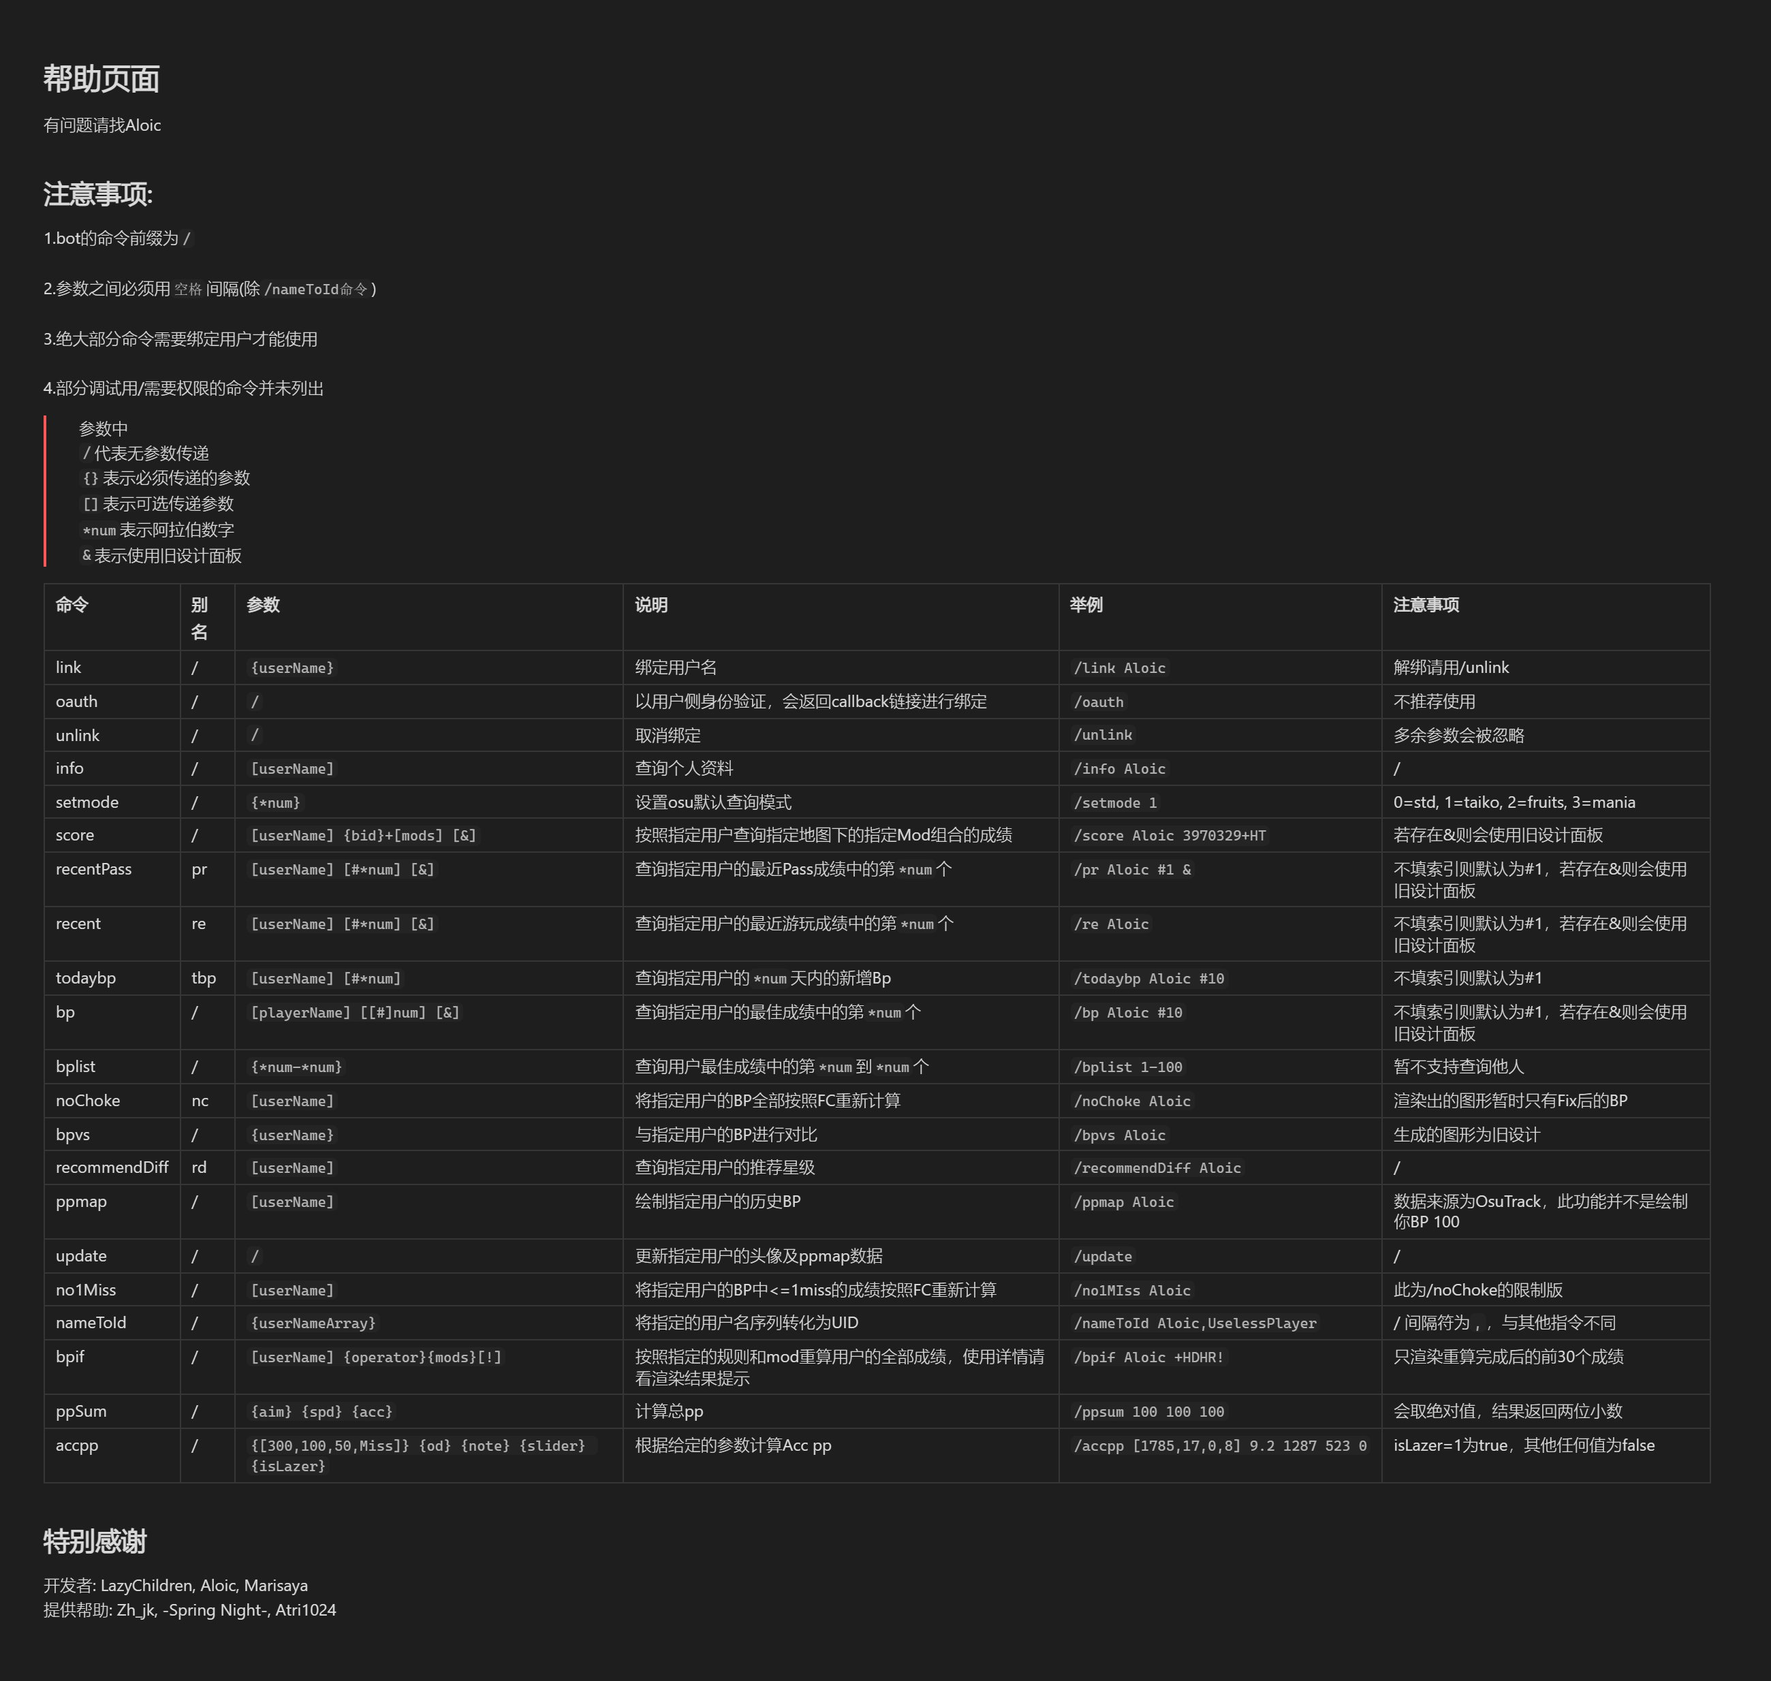
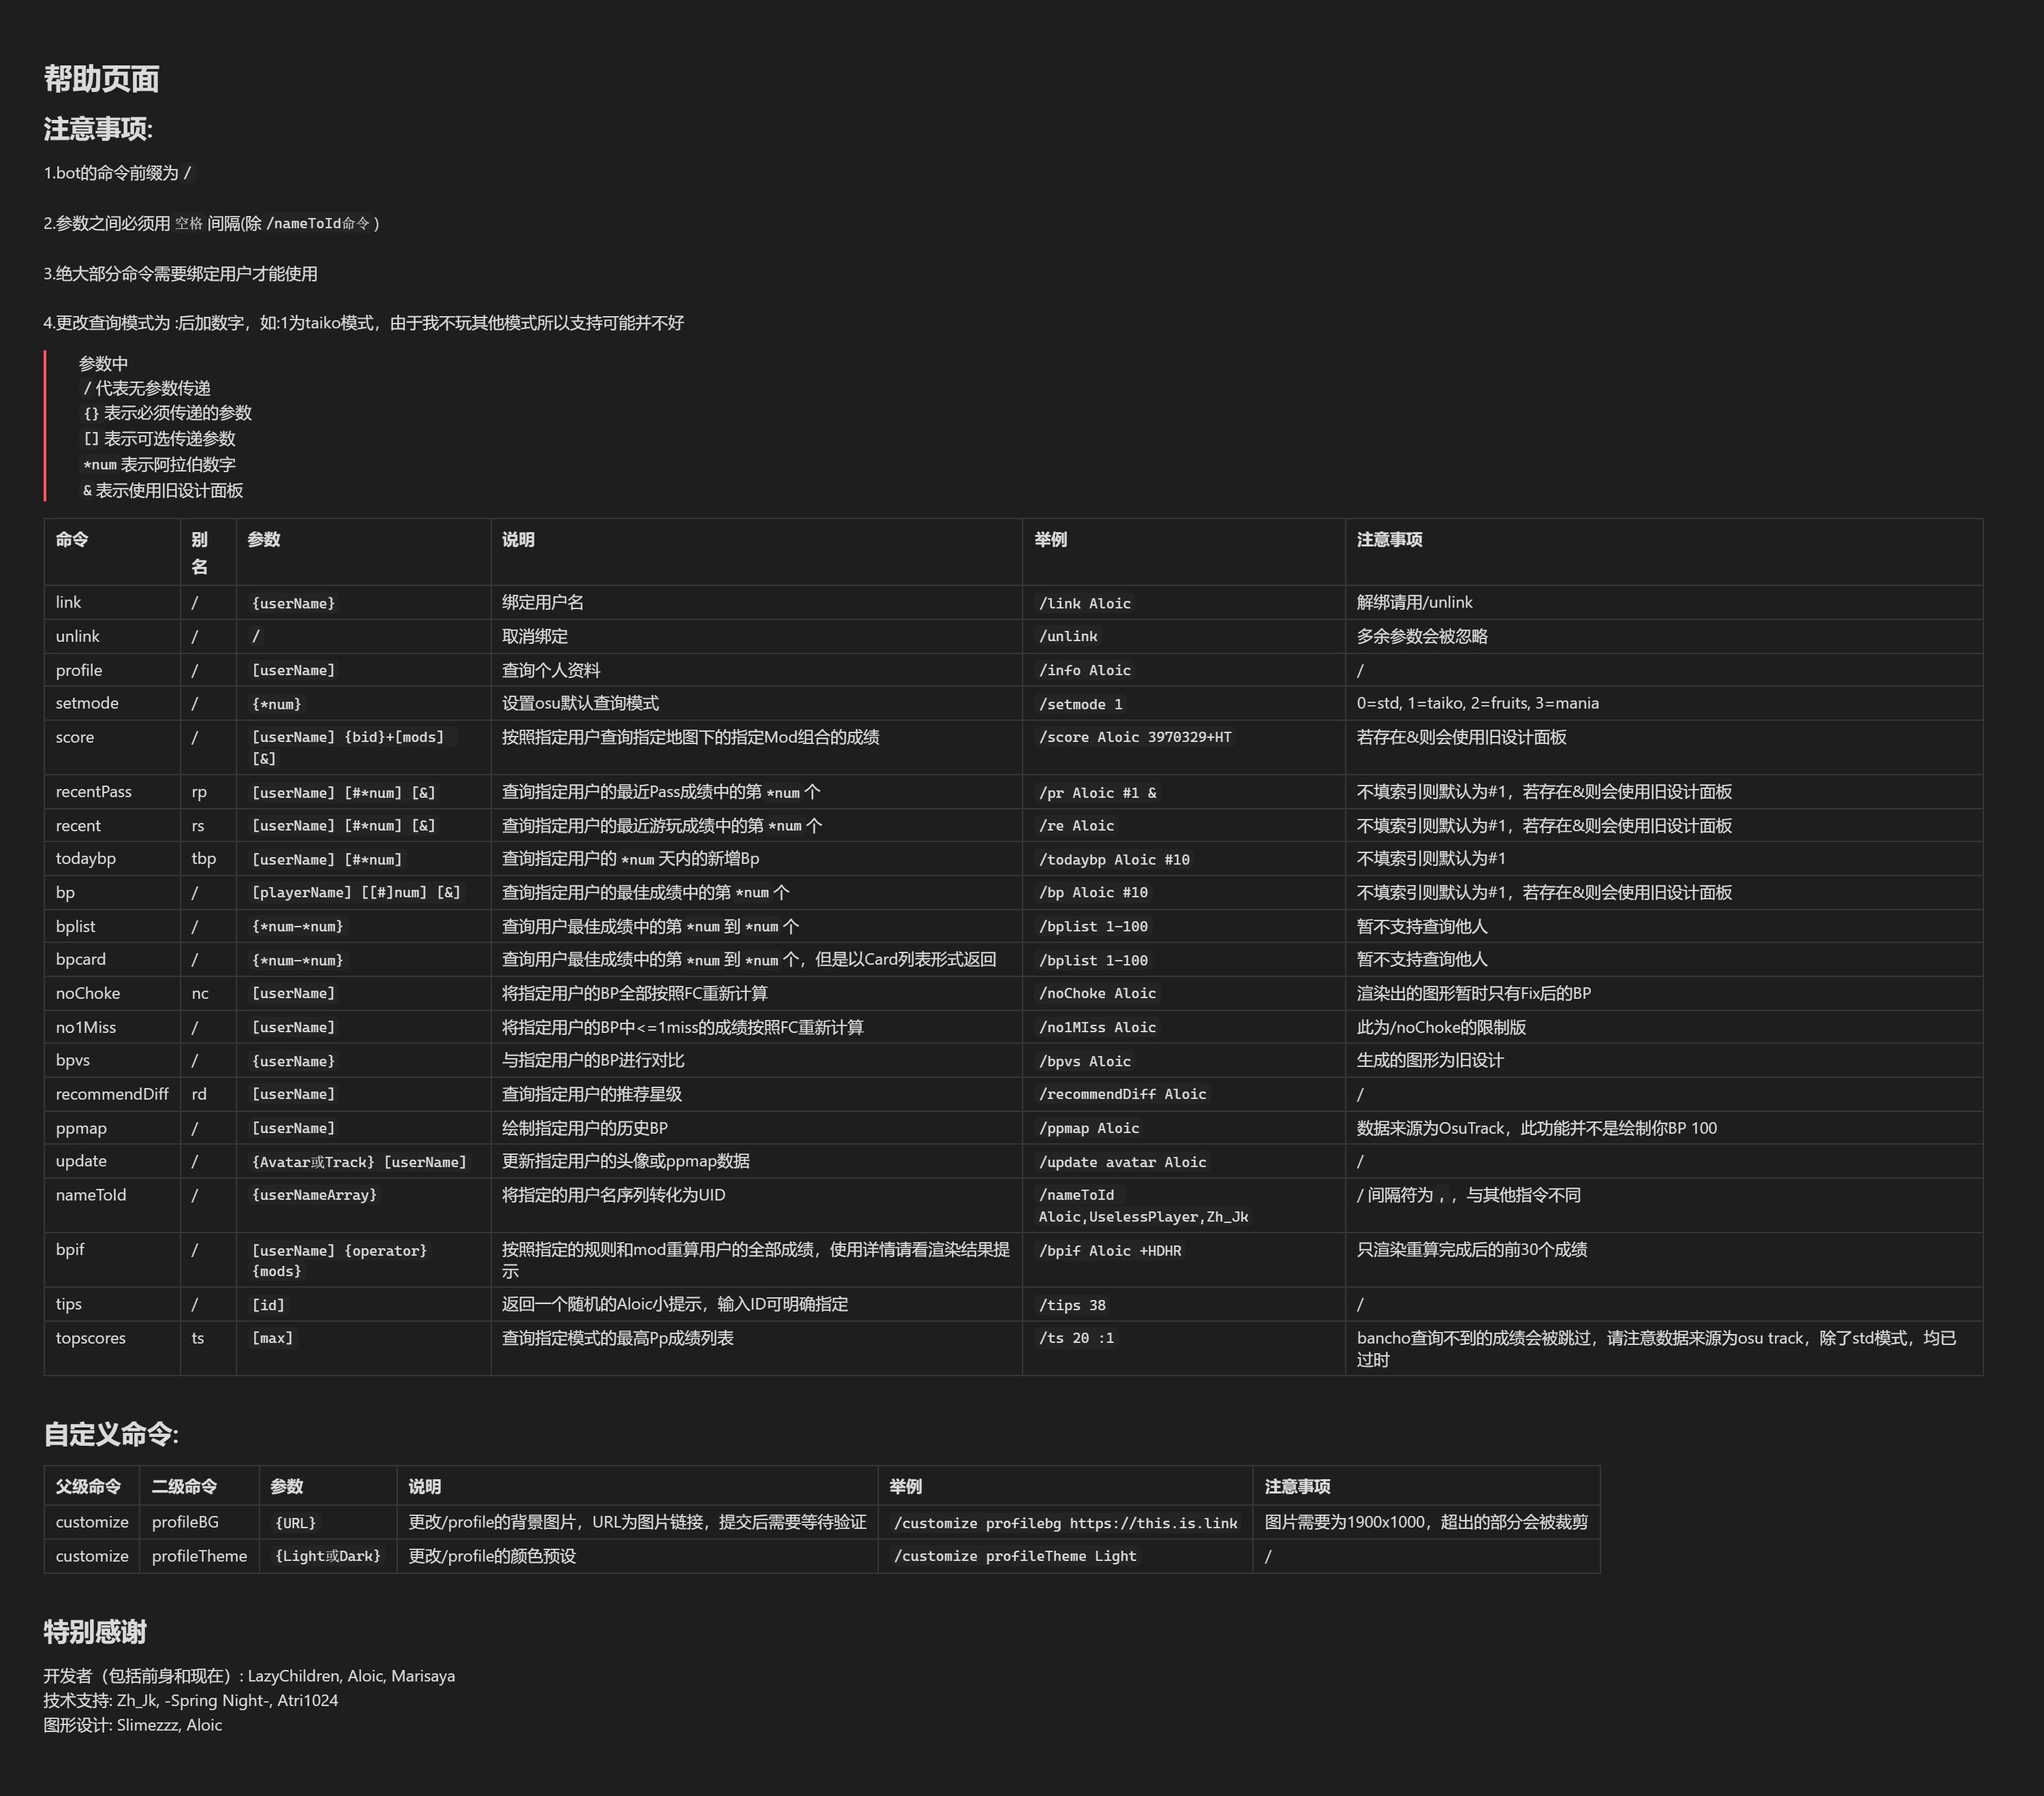
1.changed ProfileLightTheme main Color lightness to 43% 2.updated Help page

diff --git a/src/main/java/me/aloic/lazybot/discord/enums/CommandEnum.java b/src/main/java/me/aloic/lazybot/discord/enums/CommandEnum.java
@@ -28,13 +28,13 @@ public enum CommandEnum {
                     new CommandOption(OptionType.STRING, "mode", "指定查询的模式", false, false),
                     new CommandOption(OptionType.INTEGER, "version", "指定生成图像的风格", false, false))),
 
-    PLAY_RECENT(5, "pr", "查询用户最近pass的成绩", true,
+    PLAY_RECENT(5, "rp", "查询用户最近pass的成绩", true,
             List.of( new CommandOption(OptionType.STRING, "user", "指定查询的用户", false, false),
                     new CommandOption(OptionType.INTEGER, "index", "指定查询的位置", false, false),
                     new CommandOption(OptionType.STRING, "mode", "指定查询的模式", false, false),
                     new CommandOption(OptionType.INTEGER, "version", "指定生成图像的风格", false, false))),
 
-    RECENT(6, "re", "查询用户最近的成绩", true,
+    RECENT(6, "rs", "查询用户最近的成绩", true,
             List.of( new CommandOption(OptionType.STRING, "user", "指定查询的用户", false, false),
                     new CommandOption(OptionType.INTEGER, "index", "指定查询的位置", false, false),
                     new CommandOption(OptionType.STRING, "mode", "指定查询的模式", false, false),

diff --git a/src/main/java/me/aloic/lazybot/osu/theme/preset/ProfileLightTheme.java b/src/main/java/me/aloic/lazybot/osu/theme/preset/ProfileLightTheme.java
@@ -13,7 +13,7 @@ public class ProfileLightTheme extends ProfileTheme
     }
     private ProfileLightTheme(int hue) {
         this.setHue(hue);
-        this.setMainColor(new HSL(hue, 60, 53));
+        this.setMainColor(new HSL(hue, 60, 43));
         this.setMainMiddleColor(new HSL(hue, 84, 68));
         this.setLightFontColor(new HSL(hue, 100, 68));
         this.setHeaderColor(new HSL(hue, 39, 93));

diff --git a/src/main/java/me/aloic/lazybot/command/detailedCommand/PlayRecentCommand.java b/src/main/java/me/aloic/lazybot/command/detailedCommand/PlayRecentCommand.java
@@ -21,7 +21,7 @@ import org.springframework.stereotype.Component;
 
 import java.io.IOException;
 
-@LazybotCommandMapping({"pr","playrecent"})
+@LazybotCommandMapping({"rp","recentpass","playrecent"})
 @Component
 public class PlayRecentCommand implements LazybotSlashCommand
 {

diff --git a/src/main/java/me/aloic/lazybot/command/detailedCommand/RecentCommand.java b/src/main/java/me/aloic/lazybot/command/detailedCommand/RecentCommand.java
@@ -21,7 +21,7 @@ import org.springframework.stereotype.Component;
 
 import java.io.IOException;
 
-@LazybotCommandMapping({"re","recent","rs"})
+@LazybotCommandMapping({"recent","rs"})
 @Component
 public class RecentCommand implements LazybotSlashCommand
 {

diff --git a/HELP.md b/HELP.md
@@ -1,18 +1,58 @@
-# Getting Started
+# 帮助页面
 
-### Reference Documentation
+## 注意事项:
 
-For further reference, please consider the following sections:
+1.bot的命令前缀为`/`<br>
+2.参数之间必须用`空格`间隔(除`/nameToId命令`)<br>
+3.绝大部分命令需要绑定用户才能使用<br>
+4.更改查询模式为 :后加数字，如:1为taiko模式，由于我不玩其他模式所以支持可能并不好<br>
 
-* [Official Apache Maven documentation](https://maven.apache.org/guides/index.html)
-* [Spring Boot Maven Plugin Reference Guide](https://docs.spring.io/spring-boot/3.4.1/maven-plugin)
-* [Create an OCI image](https://docs.spring.io/spring-boot/3.4.1/maven-plugin/build-image.html)
+> 参数中
+`/`代表无参数传递
+`{}`表示必须传递的参数
+`[]`表示可选传递参数
+`*num`表示阿拉伯数字
+`&`表示使用旧设计面板
 
-### Maven Parent overrides
+| 命令          | 别名 | 参数                         | 说明                                                         | 举例                         | 注意事项                           |
+| ------------- | --- | --------------------------- | ------------------------------------------------------------ | ---------------------------- | --------------------------------- |
+| link         | /   | `{userName}`                  | 绑定用户名                                                   | `/link Aloic`                  | 解绑请用/unlink                    |
+| unlink        | /   | `/`                        | 取消绑定                                                     | `/unlink`                     | 多余参数会被忽略                     |
+| profile          | /   | `[userName]`                  | 查询个人资料                                                  | `/info Aloic`                 |  /                                 |
+| setmode       | /   | `{*num}`                      | 设置osu默认查询模式                                           | `/setmode 1`                  | 0=std, 1=taiko, 2=fruits, 3=mania  |
+| score         | /   | `[userName] {bid}+[mods] [&]`   | 按照指定用户查询指定地图下的指定Mod组合的成绩                    | `/score Aloic 3970329+HT`       | 若存在&则会使用旧设计面板             |
+| recentPass    | rp  | `[userName] [#*num] [&]`        | 查询指定用户的最近Pass成绩中的第`*num`个                        | `/pr Aloic #1 &`               | 不填索引则默认为#1，若存在&则会使用旧设计面板   |
+| recent        | rs  | `[userName] [#*num] [&]`        | 查询指定用户的最近游玩成绩中的第`*num`个                        | `/re Aloic`                    | 不填索引则默认为#1，若存在&则会使用旧设计面板   |
+| todaybp       | tbp  | `[userName] [#*num]`          | 查询指定用户的`*num`天内的新增Bp                              | `/todaybp Aloic #10`             | 不填索引则默认为#1   |
+| bp            | /   | `[playerName] [[#]num] [&]`     | 查询指定用户的最佳成绩中的第`*num`个                            | `/bp Aloic #10`                | 不填索引则默认为#1，若存在&则会使用旧设计面板   |
+| bplist        | /   | `{*num-*num}`                 | 查询用户最佳成绩中的第`*num`到`*num`个                             | `/bplist 1-100`                | 暂不支持查询他人                    |
+| bpcard        | /   | `{*num-*num}`                 | 查询用户最佳成绩中的第`*num`到`*num`个，但是以Card列表形式返回        | `/bplist 1-100`                | 暂不支持查询他人                    |
+| noChoke       | nc  | `[userName]`                  | 将指定用户的BP全部按照FC重新计算                                | `/noChoke Aloic`               | 渲染出的图形暂时只有Fix后的BP        |
+| no1Miss       | /   | `[userName]`                  | 将指定用户的BP中<=1miss的成绩按照FC重新计算                     | `/no1MIss Aloic`                | 此为/noChoke的限制版               |
+| bpvs          | /   | `{userName}`                  | 与指定用户的BP进行对比                                         | `/bpvs Aloic`                  | 生成的图形为旧设计                  |
+| recommendDiff | rd   | `[userName]`                  | 查询指定用户的推荐星级                                         | `/recommendDiff Aloic`           | /                               |
+| ppmap         | /   | `[userName]`                  | 绘制指定用户的历史BP                                          | `/ppmap Aloic`                  | 数据来源为OsuTrack，此功能并不是绘制你BP 100 |
+| update        | /   | `{Avatar或Track} [userName]`    | 更新指定用户的头像或ppmap数据                                  | `/update avatar Aloic`           | /                                 |
+| nameToId      | /   | `{userNameArray}`              | 将指定的用户名序列转化为UID                                   | `/nameToId Aloic,UselessPlayer,Zh_Jk` | / 间隔符为`,`，与其他指令不同      |
+| bpif          | /   | `[userName] {operator}{mods}`   | 按照指定的规则和mod重算用户的全部成绩，使用详情请看渲染结果提示    | `/bpif Aloic +HDHR`            | 只渲染重算完成后的前30个成绩         |
+| tips          | /   | `[id]`                       | 返回一个随机的Aloic小提示，输入ID可明确指定                     | `/tips 38`                    | /                                 |
+| topscores     | ts  | `[max]`                      | 查询指定模式的最高Pp成绩列表    | `/ts 20 :1`                  | bancho查询不到的成绩会被跳过，请注意数据来源为osu track，除了std模式，均已过时         |
 
-Due to Maven's design, elements are inherited from the parent POM to the project POM.
-While most of the inheritance is fine, it also inherits unwanted elements like `<license>` and `<developers>` from the
-parent.
-To prevent this, the project POM contains empty overrides for these elements.
-If you manually switch to a different parent and actually want the inheritance, you need to remove those overrides.
+
+## 自定义命令:
+
+| 父级命令      | 二级命令        | 参数                         | 说明                                                         | 举例                         | 注意事项                           |
+| ----------- | ------------- | ------------- | ------------------------------------------------------------ | --------------------------------------- | --------------------------------- |
+| customize   | profileBG     | `{URL}`        | 更改/profile的背景图片，URL为图片链接                            | `/customize profilebg https://this.is.link`  | 提交后需要等待验证                   |
+| customize   | profileTheme  | `{Light或Dark}` | 更改/profile的颜色预设                                         | `/customize profileTheme Light`             | /                                  |
+
+
+
+## 特别感谢
+开发者（包括前身和现在）: LazyChildren, Aloic, Marisaya
+技术支持: Zh_Jk, -Spring Night-, Atri1024
+图形设计: Slimezzz, Aloic
+
+
+
 

diff --git a/README.md b/README.md
@@ -1,11 +1,5 @@
 # lazybot-renewal
 ---
-### Planned
-
-- implement Tencent official Api support</br>
-- refactor Svg utils</br>
-- improve render pipeline, add some queue or sth</br>
----
 
 ### About Image Generation
 
